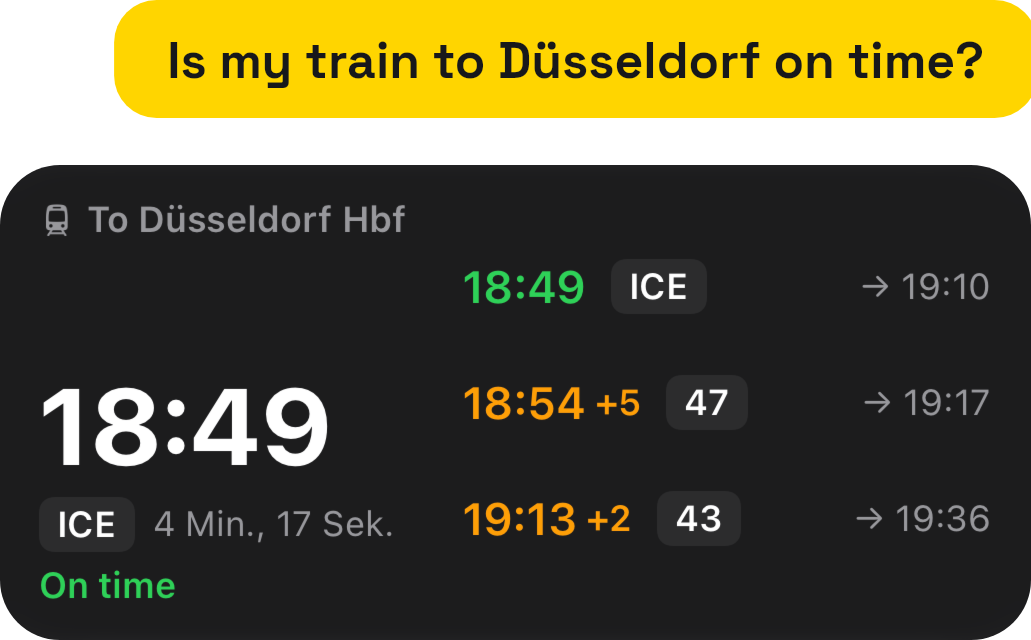
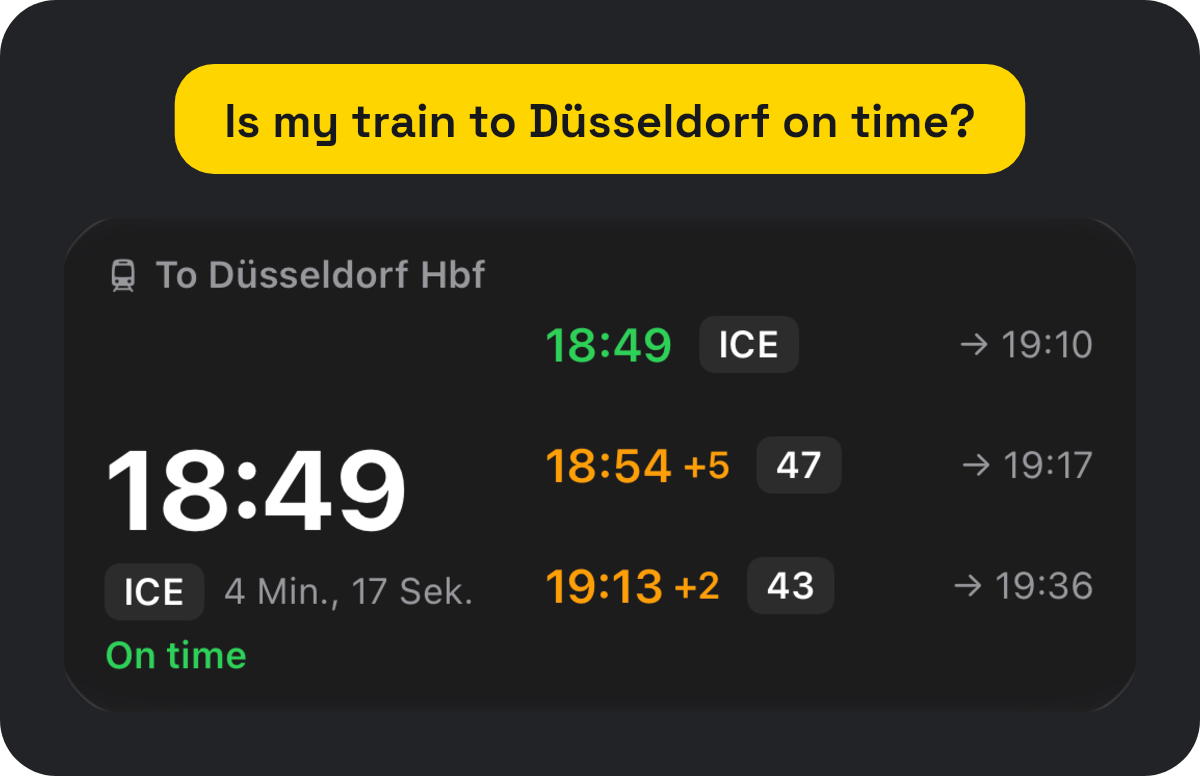
docs: apply veritatron design to the README

diff --git a/README.md b/README.md
@@ -1,4 +1,9 @@
-<h1 align="center">words2widget</h1>
+<h1 align="center">
+  <picture>
+    <source media="(prefers-color-scheme: dark)" srcset="assets/wordmark-dark.png">
+    <img src="assets/wordmark-light.png" alt="words2widget" width="420">
+  </picture>
+</h1>
 
 <p align="center">
   <strong>Say what you want on your iPhone home screen. Your AI builds the widget.</strong><br>
@@ -6,8 +11,8 @@
 </p>
 
 <p align="center">
-  <a href="https://github.com/veritatron/words2widget/actions/workflows/check.yml"><img src="https://github.com/veritatron/words2widget/actions/workflows/check.yml/badge.svg" alt="Checks"></a>
-  <a href="LICENSE.txt"><img src="https://img.shields.io/badge/license-MIT-blue" alt="MIT license"></a>
+  <a href="https://github.com/veritatron/words2widget/actions/workflows/check.yml"><img src="https://img.shields.io/github/actions/workflow/status/veritatron/words2widget/check.yml?branch=master&label=checks&labelColor=212327&color=FFD500&style=flat-square" alt="Checks"></a>
+  <a href="LICENSE.txt"><img src="https://img.shields.io/badge/license-MIT-FFD500?labelColor=212327&style=flat-square" alt="MIT license"></a>
 </p>
 
 <p align="center">
@@ -38,7 +43,7 @@ Small, medium or large. The layout adapts, so every size is made to be read at a
 <br clear="both">
 <br>
 
-<a href="examples/Weekly%20Load.md"><img align="right" width="46%" src="examples/Weekly%20Load.png" alt="Weekly Load widget with booked hours per day for this week and next"></a>
+<a href="examples/Weekly%20Load.md"><img align="right" width="46%" src="assets/feature-day.png" alt="Weekly Load widget with booked hours per day for this week and next"></a>
 
 ### Built around your day
 
@@ -61,12 +66,12 @@ No new app to learn, no API key and no subscription. Scriptable is free, and the
 Tap a widget, copy it, and it's yours. Got your own idea? Describe it in one sentence.
 
 <p align="center">
-  <a href="examples/Air%20Out.md"><img src="examples/Air%20Out.png" alt="Air Out widget saying the windows can be opened now" width="49%"></a>
-  <a href="examples/Water.md"><img src="examples/Water.png" alt="Water widget tracking glasses of water today" width="49%"></a>
+  <a href="examples/Air%20Out.md"><img src="assets/card-air-out.png" alt="Air Out widget saying the windows can be opened now" width="49%"></a>
+  <a href="examples/Water.md"><img src="assets/card-water.png" alt="Water widget tracking glasses of water today" width="49%"></a>
 </p>
 <p align="center">
-  <a href="examples/Run%20Today.md"><img src="examples/Run%20Today.png" alt="Run Today widget with the current weather for a run" width="49%"></a>
-  <a href="examples/Top%20Repos.md"><img src="examples/Top%20Repos.png" alt="Top Repos widget listing this week's most-starred GitHub repositories" width="49%"></a>
+  <a href="examples/Run%20Today.md"><img src="assets/card-run-today.png" alt="Run Today widget with the current weather for a run" width="49%"></a>
+  <a href="examples/Top%20Repos.md"><img src="assets/card-top-repos.png" alt="Top Repos widget listing this week's most-starred GitHub repositories" width="49%"></a>
 </p>
 
 ## Quickstart
